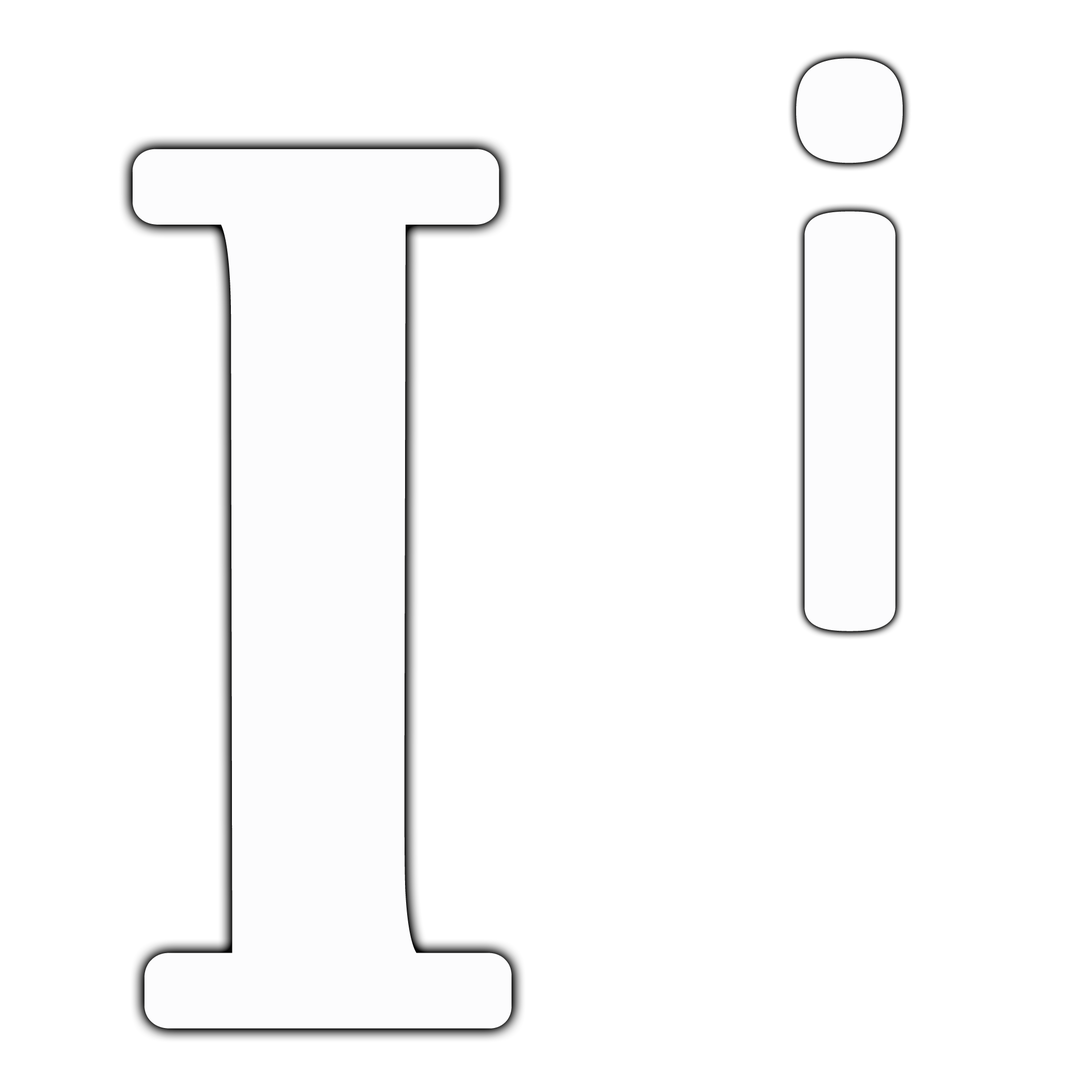
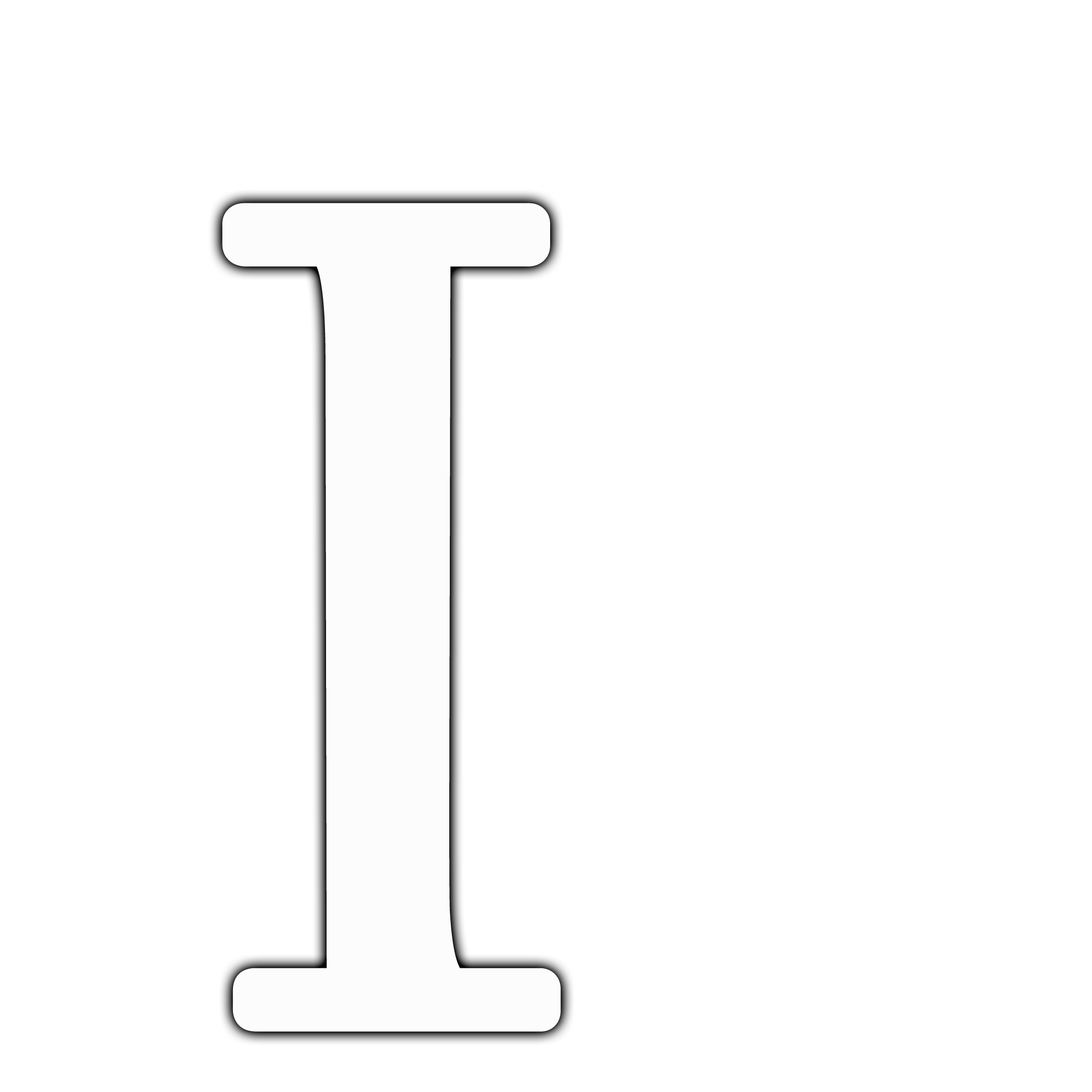
funcion programado para vocales

diff --git a/css/vocales.css b/css/vocales.css
@@ -50,6 +50,7 @@ div h1#TituloFrutasDulces{
 .espacioVocales{
     height: 450px;
     width: 450px; 
+    position:absolute; z-index:1;
 }
 .animal{
     background-color: rgb(255, 60, 0);
@@ -92,17 +93,18 @@ div h1#TituloFrutasDulces{
 }
 .tam_miniatura{
     position: absolute;
+    z-index:0;
     top: 0;
     right: 0;
     margin: auto;
     pointer-events: stroke;
-    height:200px; 
-    width: 200px; 
+    height:240px; 
+    width: 240px; 
     background-color: rgb(255, 196, 0);
 }
 .view_vocal{
     text-align: center;
-    margin-top: -130px;
+    margin-top: -80px;
     font-size: 280px;
     margin-left: -25px;
     color: white;

diff --git a/vocales.php b/vocales.php
@@ -65,7 +65,7 @@
        
         function sigVocal(){ 
             var vocal = document.getElementById("vocalActual").innerHTML ; //obtengo el valor del texto de la etiqueta para se comparado                                                        
-            //FRUTA 2
+            //VOCAL E
             if(vocal=="a"){                                                                                                
                 for(var i in productos.data){                                          
                     var nom = new Array();                                                           
@@ -74,189 +74,116 @@
                         var x=(productos.data[i].nombreImagen);                                                           
                         $(".view_vocal").html(x);//SobreEscribe NuevoNombre 
                         //SobrePone ImagenNuevo
-                        $(".espacioVocales").html("<a href='#'> <img class='img-responsive' src='img/vocales/e.png'> </a>");                                                                     
+                        $(".espacioVocales").html("<a href='#'> <img class='img-responsive' src='img/vocales/e.png'> </a>");
+                        $(".animalVocal").html("<a href='#'> <img class='img-responsive' src='img/vocales/elefante.png'> </a>");                                                                     
                     }                                                                                                 
                 }                                                                                                                                  
             } 
-
-        }       
-                 
-        // imagen previus
-        /*
-        function previus(){ 
-            var prueba = document.getElementById("titulos").innerHTML ; //obtengo el valor del texto de la etiqueta para se comparado                                                        
-            //FRUTA 1
-            if(prueba=="Manzana Verde"){                                                                                                
+            //VOCAL i
+            if(vocal=="e"){                                                                                                
                 for(var i in productos.data){                                          
                     var nom = new Array();                                                           
                     nom= [productos.data[i].idImagenes];                                                                                                                   
-                    if(nom==1){                                                             
+                    if(nom==14){                                                             
                         var x=(productos.data[i].nombreImagen);                                                           
-                        $("#titulos").html(x);//SobreEscribe NuevoNombre 
-                        //SobrePone ImagenNuevo CENTRO
-                        $("#fruta").html("<a href='#' onmousedown='voz1.play()'> <img class='img-responsive img-circle' src='img/frutas/manzana_roja.png'> </a>");
-                        //SobrePone imagen View Minieatura SIGUIENTE
-                        $(".siguiente").html("<a href='#' onClick='siguientes()' > <img class='img-responsive img-circle' src='img/frutas/manzanaVerde.png'> </a>");
-                        //Miniatura view ANTERIOR
-                        $(".anterior").html("<a href='#' > <img class='img-responsive img-circle' src='img/frutas/manzana_roja.png'> </a>");
-                    }                                                                                                 
-                }                                                                                                                                  
-            } 
-            //FRUTA 2
-            if(prueba=="Papaya"){                                                                                                
-                for(var i in productos.data){                                          
-                    var nom = new Array();                                                           
-                    nom= [productos.data[i].idImagenes];                                                                                                                   
-                    if(nom==2){                                                             
-                        var x=(productos.data[i].nombreImagen);                                                           
-                        $("#titulos").html(x);//SobreEscribe NuevoNombre 
-                        //SobrePone ImagenNuevo CENTRO
-                        $("#fruta").html("<a href='#' onmousedown='voz2.play()'> <img class='img-responsive img-circle' src='img/frutas/manzanaVerde.png'> </a>");
-                        //SobrePone imagen View Minieatura SIGUIENTE
-                        $(".siguiente").html("<a href='#' onClick='siguientes()' > <img class='img-responsive img-circle' src='img/frutas/Papaya.png'> </a>");
-                        //Miniatura view ANTERIOR
-                        $(".anterior").html("<a href='#' > <img class='img-responsive img-circle' src='img/frutas/manzana_roja.png'> </a>");
+                        $(".view_vocal").html(x);//SobreEscribe NuevoNombre 
+                        //SobrePone ImagenNuevo
+                        $(".espacioVocales").html("<a href='#'> <img class='img-responsive' src='img/vocales/i.png'> </a>");
+                        $(".animalVocal").html("<a href='#'> <img class='img-responsive' src='img/vocales/iguana.png'> </a>");                                                                     
                     }                                                                                                 
                 }                                                                                                                                  
             }
-            //FRUTA 3
-            if(prueba=="Pera"){                                                                                                
+            //VOCAL o
+            if(vocal=="i"){                                                                                                
                 for(var i in productos.data){                                          
                     var nom = new Array();                                                           
                     nom= [productos.data[i].idImagenes];                                                                                                                   
-                    if(nom==3){                                                             
+                    if(nom==15){                                                             
                         var x=(productos.data[i].nombreImagen);                                                           
-                        $("#titulos").html(x);//SobreEscribe NuevoNombre 
-                        //SobrePone ImagenNuevo CENTRO
-                        $("#fruta").html("<a href='#' onmousedown='voz3.play()'> <img class='img-responsive img-circle' src='img/frutas/Papaya.png'> </a>");
-                        //SobrePone imagen View Minieatura SIGUIENTE
-                        $(".siguiente").html("<a href='#' onClick='siguientes()' > <img class='img-responsive img-circle' src='img/frutas/Pera.png'> </a>");
-                        //Miniatura view ANTERIOR
-                        $(".anterior").html("<a href='#' > <img class='img-responsive img-circle' src='img/frutas/manzanaVerde.png'> </a>");
-                    }                                                                                                 
-                }                                                                                                                                  
-            } 
-            //FRUTA 4
-            if(prueba=="Sandia"){                                                                                                
-                for(var i in productos.data){                                          
-                    var nom = new Array();                                                           
-                    nom= [productos.data[i].idImagenes];                                                                                                                   
-                    if(nom==4){                                                             
-                        var x=(productos.data[i].nombreImagen);                                                           
-                        $("#titulos").html(x);//SobreEscribe NuevoNombre 
-                        //SobrePone ImagenNuevo CENTRO
-                        $("#fruta").html("<a href='#' onmousedown='voz4.play()'> <img class='img-responsive img-circle' src='img/frutas/Pera.png'> </a>");
-                        //SobrePone imagen View Minieatura SIGUIENTE
-                        $(".siguiente").html("<a href='#' onClick='siguientes()' > <img class='img-responsive img-circle' src='img/frutas/Sandia.png'> </a>");
-                        //Miniatura view ANTERIOR
-                        $(".anterior").html("<a href='#' > <img class='img-responsive img-circle' src='img/frutas/Papaya.png'> </a>");
+                        $(".view_vocal").html(x);//SobreEscribe NuevoNombre 
+                        //SobrePone ImagenNuevo
+                        $(".espacioVocales").html("<a href='#'> <img class='img-responsive' src='img/vocales/o.png'> </a>");
+                        $(".animalVocal").html("<a href='#'> <img  class='img-responsive' src='img/vocales/oso.png'> </a>");                                                                     
                     }                                                                                                 
                 }                                                                                                                                  
             }
-            //FRUTA 5
-            if(prueba=="Uva"){                                                                                                
+            //VOCAL u
+            if(vocal=="o"){                                                                                                
                 for(var i in productos.data){                                          
                     var nom = new Array();                                                           
                     nom= [productos.data[i].idImagenes];                                                                                                                   
-                    if(nom==5){                                                             
+                    if(nom==16){                                                             
                         var x=(productos.data[i].nombreImagen);                                                           
-                        $("#titulos").html(x);//SobreEscribe NuevoNombre 
-                        //SobrePone ImagenNuevo CENTRO
-                        $("#fruta").html("<a href='#' onmousedown='voz5.play()'> <img class='img-responsive img-circle' src='img/frutas/Sandia.png'> </a>");
-                        //SobrePone imagen View Minieatura SIGUIENTE
-                        $(".siguiente").html("<a href='#' onClick='siguientes()' > <img class='img-responsive img-circle' src='img/frutas/Uva.png'> </a>");
-                        //Miniatura view ANTERIOR
-                        $(".anterior").html("<a href='#' > <img class='img-responsive img-circle' src='img/frutas/Pera.png'> </a>");
-                    }                                                                                                 
-                }                                                                                                                                  
-            }
-            //FRUTA 6
-            if(prueba=="Zapote"){                                                                                                
-                for(var i in productos.data){                                          
-                    var nom = new Array();                                                           
-                    nom= [productos.data[i].idImagenes];                                                                                                                   
-                    if(nom==6){                                                             
-                        var x=(productos.data[i].nombreImagen);                                                           
-                        $("#titulos").html(x);//SobreEscribe NuevoNombre 
-                        //SobrePone ImagenNuevo CENTRO
-                        $("#fruta").html("<a href='#' onmousedown='voz6.play()'> <img class='img-responsive img-circle' src='img/frutas/Uva.png'> </a>");
-                        //SobrePone imagen View Minieatura SIGUIENTE
-                        $(".siguiente").html("<a href='#' onClick='siguientes()' > <img class='img-responsive img-circle' src='img/frutas/Zapote.png'> </a>");
-                        //Miniatura view ANTERIOR
-                        $(".anterior").html("<a href='#' > <img class='img-responsive img-circle' src='img/frutas/Sandia.png'> </a>");
-                    }                                                                                                 
-                }                                                                                                                                  
-            }
-            //FRUTA 7
-            if(prueba=="Guayaba"){                                                                                                
-                for(var i in productos.data){                                          
-                    var nom = new Array();                                                           
-                    nom= [productos.data[i].idImagenes];                                                                                                                   
-                    if(nom==7){                                                             
-                        var x=(productos.data[i].nombreImagen);                                                           
-                        $("#titulos").html(x);//SobreEscribe NuevoNombre 
-                        //SobrePone ImagenNuevo CENTRO
-                        $("#fruta").html("<a href='#' onmousedown='voz7.play()'> <img class='img-responsive img-circle' src='img/frutas/Zapote.png'> </a>");
-                        //SobrePone imagen View Minieatura SIGUIENTE
-                        $(".siguiente").html("<a href='#' onClick='siguientes()' > <img class='img-responsive img-circle' src='img/frutas/Guayaba.png'> </a>");
-                        //Miniatura view ANTERIOR
-                        $(".anterior").html("<a href='#' > <img class='img-responsive img-circle' src='img/frutas/Uva.png'> </a>");
-                    }                                                                                                 
-                }                                                                                                                                  
-            }
-            //FRUTA 8
-            if(prueba=="Higo"){                                                                                                
-                for(var i in productos.data){                                          
-                    var nom = new Array();                                                           
-                    nom= [productos.data[i].idImagenes];                                                                                                                   
-                    if(nom==8){                                                             
-                        var x=(productos.data[i].nombreImagen);                                                           
-                        $("#titulos").html(x);//SobreEscribe NuevoNombre 
-                        //SobrePone ImagenNuevo CENTRO
-                        $("#fruta").html("<a href='#' onmousedown='voz8.play()'> <img class='img-responsive img-circle' src='img/frutas/Guayaba.png'> </a>");
-                        //SobrePone imagen View Minieatura SIGUIENTE
-                        $(".siguiente").html("<a href='#' onClick='siguientes()' > <img class='img-responsive img-circle' src='img/frutas/Higo.png'> </a>");
-                        //Miniatura view ANTERIOR
-                        $(".anterior").html("<a href='#' > <img class='img-responsive img-circle' src='img/frutas/Zapote.png'> </a>");
-                    }                                                                                                 
-                }                                                                                                                                  
-            }
-            //FRUTA 9
-            if(prueba=="Banano"){                                                                                                
-                for(var i in productos.data){                                          
-                    var nom = new Array();                                                           
-                    nom= [productos.data[i].idImagenes];                                                                                                                   
-                    if(nom==9){                                                             
-                        var x=(productos.data[i].nombreImagen);                                                           
-                        $("#titulos").html(x);//SobreEscribe NuevoNombre 
-                        //SobrePone ImagenNuevo CENTRO
-                        $("#fruta").html("<a href='#' onmousedown='voz9.play()'> <img class='img-responsive img-circle' src='img/frutas/Higo.png'> </a>");
-                        //SobrePone imagen View Minieatura SIGUIENTE
-                        $(".siguiente").html("<a href='#' onClick='siguientes()' > <img class='img-responsive img-circle' src='img/frutas/Banano.png'> </a>");
-                        //Miniatura view ANTERIOR
-                        $(".anterior").html("<a href='#' > <img class='img-responsive img-circle' src='img/frutas/Guayaba.png'> </a>");
-                    }                                                                                                 
-                }                                                                                                                                  
-            }
-            //FRUTA 10
-            if(prueba=="Melon"){                                                                                                
-                for(var i in productos.data){                                          
-                    var nom = new Array();                                                           
-                    nom= [productos.data[i].idImagenes];                                                                                                                   
-                    if(nom==10){                                                             
-                        var x=(productos.data[i].nombreImagen);                                                           
-                        $("#titulos").html(x);//SobreEscribe NuevoNombre 
-                        //SobrePone ImagenNuevo CENTRO
-                        $("#fruta").html("<a href='#' onmousedown='voz10.play()'> <img class='img-responsive img-circle' src='img/frutas/Banano.png'> </a>");
-                        //SobrePone imagen View Minieatura SIGUIENTE
-                        $(".siguiente").html("<a href='#' onClick='siguientes()' > <img class='img-responsive img-circle' src='img/frutas/Melon.png'> </a>");
-                        //Miniatura view ANTERIOR
-                        $(".anterior").html("<a href='#' > <img class='img-responsive img-circle' src='img/frutas/Higo.png'> </a>");
+                        $(".view_vocal").html(x);//SobreEscribe NuevoNombre 
+                        //SobrePone ImagenNuevo
+                        $(".espacioVocales").html("<a href='#'> <img class='img-responsive' src='img/vocales/u.png'> </a>");
+                        $(".animalVocal").html("<a href='#'> <img class='img-responsive' src='img/vocales/urraca.png'> </a>");                                                                     
                     }                                                                                                 
                 }                                                                                                                                  
             }
 
-        } */        
+        }    
+        function antVocal(){ 
+            var vocal = document.getElementById("vocalActual").innerHTML ; //obtengo el valor del texto de la etiqueta para se comparado                                                        
+            //VOCAL E
+            if(vocal=="e"){                                                                                                
+                for(var i in productos.data){                                          
+                    var nom = new Array();                                                           
+                    nom= [productos.data[i].idImagenes];                                                                                                                   
+                    if(nom==12){                                                             
+                        var x=(productos.data[i].nombreImagen);                                                           
+                        $(".view_vocal").html(x);//SobreEscribe NuevoNombre 
+                        //SobrePone ImagenNuevo
+                        $(".espacioVocales").html("<a href='#'> <img class='img-responsive' src='img/vocales/a.png'> </a>");
+                        $(".animalVocal").html("<a href='#'> <img class='img-responsive' src='img/vocales/abeja.png'> </a>");                                                                     
+                    }                                                                                                 
+                }                                                                                                                                  
+            } 
+            //VOCAL i
+            if(vocal=="i"){                                                                                                
+                for(var i in productos.data){                                          
+                    var nom = new Array();                                                           
+                    nom= [productos.data[i].idImagenes];                                                                                                                   
+                    if(nom==13){                                                             
+                        var x=(productos.data[i].nombreImagen);                                                           
+                        $(".view_vocal").html(x);//SobreEscribe NuevoNombre 
+                        //SobrePone ImagenNuevo
+                        $(".espacioVocales").html("<a href='#'> <img class='img-responsive' src='img/vocales/e.png'> </a>");
+                        $(".animalVocal").html("<a href='#'> <img class='img-responsive' src='img/vocales/elefante.png'> </a>");                                                                     
+                    }                                                                                                 
+                }                                                                                                                                  
+            }
+            //VOCAL o
+            if(vocal=="o"){                                                                                                
+                for(var i in productos.data){                                          
+                    var nom = new Array();                                                           
+                    nom= [productos.data[i].idImagenes];                                                                                                                   
+                    if(nom==14){                                                             
+                        var x=(productos.data[i].nombreImagen);                                                           
+                        $(".view_vocal").html(x);//SobreEscribe NuevoNombre 
+                        //SobrePone ImagenNuevo
+                        $(".espacioVocales").html("<a href='#'> <img class='img-responsive' src='img/vocales/i.png'> </a>");
+                        $(".animalVocal").html("<a href='#'> <img  class='img-responsive' src='img/vocales/iguana.png'> </a>");                                                                     
+                    }                                                                                                 
+                }                                                                                                                                  
+            }
+            //VOCAL u
+            if(vocal=="u"){                                                                                                
+                for(var i in productos.data){                                          
+                    var nom = new Array();                                                           
+                    nom= [productos.data[i].idImagenes];                                                                                                                   
+                    if(nom==15){                                                             
+                        var x=(productos.data[i].nombreImagen);                                                           
+                        $(".view_vocal").html(x);//SobreEscribe NuevoNombre 
+                        //SobrePone ImagenNuevo
+                        $(".espacioVocales").html("<a href='#'> <img class='img-responsive' src='img/vocales/o.png'> </a>");
+                        $(".animalVocal").html("<a href='#'> <img class='img-responsive' src='img/vocales/oso.png'> </a>");                                                                     
+                    }                                                                                                 
+                }                                                                                                                                  
+            }
+
+        }          
+       
         function __ajax(url, data){
             var ajax = $.ajax({
                 "method": "POST",
